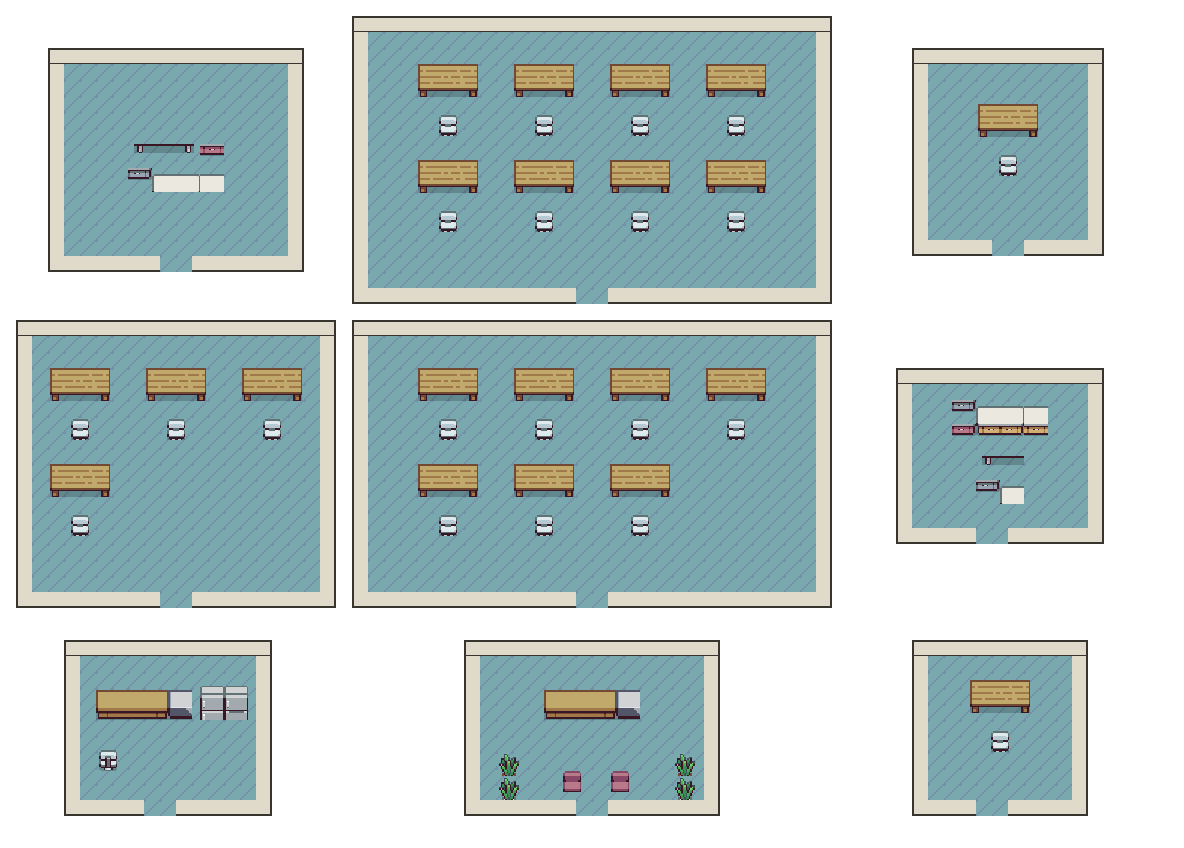
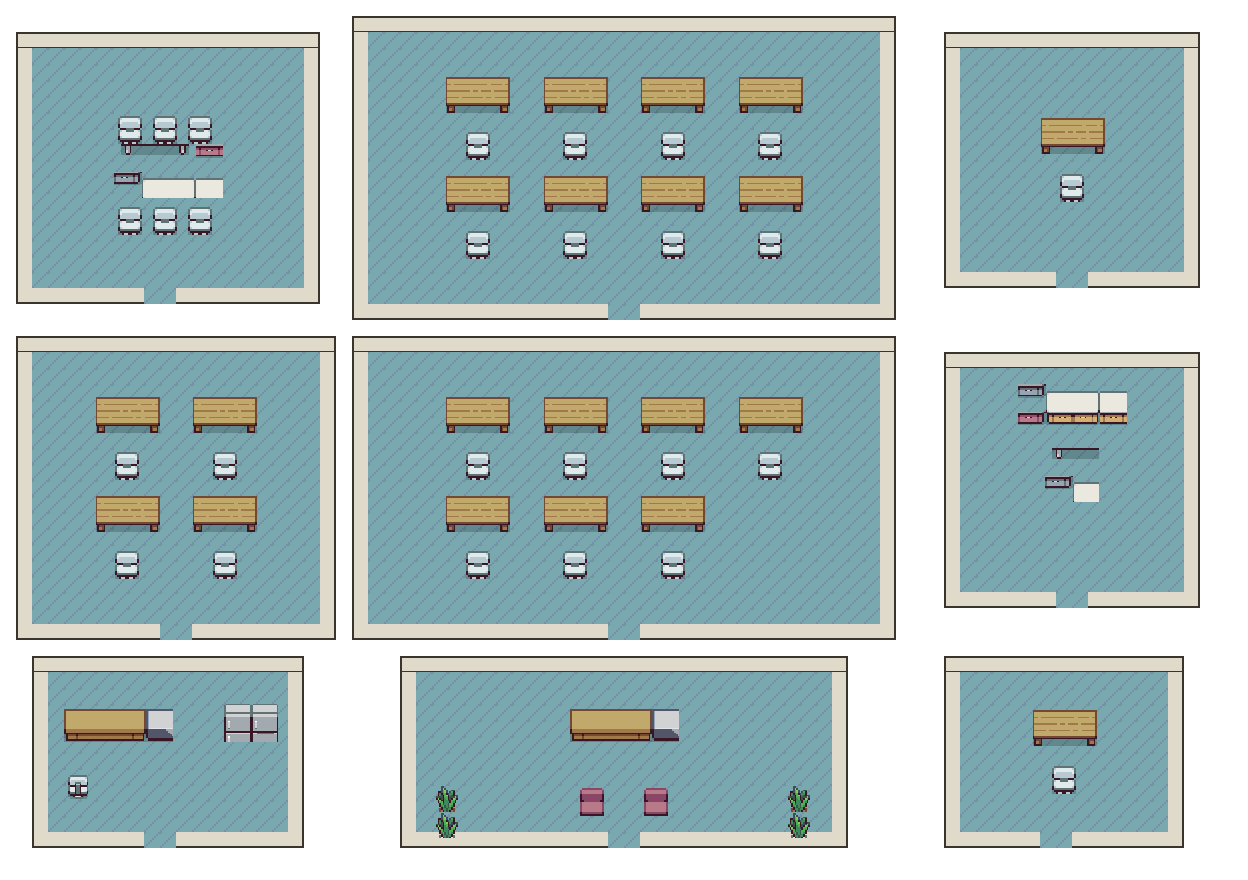
feat(office): bigger everything, solid-colour monitors, fills the space
- Fix blitScaled dropping fractional dest offsets (furniture now renders reliably)
- Wider grid (1248x880), rooms fill their cells → far less black space
- Furniture bigger: desks 1.6x, chairs 2x; AGENT_SIZE 62→84
- Monitors are now solid status-colour blocks (no dark bezel)
- fitZoom fills to the edges; bump ART_VERSION to 9

diff --git a/ui/src/components/LivingOfficeFloor.tsx b/ui/src/components/LivingOfficeFloor.tsx
@@ -43,18 +43,18 @@ const FLOORS: FloorDef[] = [
     id: "square",
     label: "Office",
     image: "/assets/pixelart/Office%20Square.png",
-    natW: 1184,
-    natH: 848,
+    natW: 1248,
+    natH: 880,
     zones: [
-      { id: "meeting", name: "會議室", team: null, x: 4.1, y: 5.7, w: 21.6, h: 26.4, color: "#10B981" },
-      { id: "teaching", name: "教學組", team: "教學組", x: 29.7, y: 1.9, w: 40.5, h: 34, color: "#8B5CF6", seats: [{"x":37.84,"y":14.62},{"x":45.95,"y":14.62},{"x":54.05,"y":14.62},{"x":62.16,"y":14.62},{"x":37.84,"y":25.94},{"x":45.95,"y":25.94},{"x":54.05,"y":25.94},{"x":62.16,"y":25.94}] },
-      { id: "talent", name: "人才發展", team: "人才發展", x: 77, y: 5.7, w: 16.2, h: 24.5, color: "#6366F1", seats: [{"x":85.14,"y":19.34}] },
-      { id: "lead", name: "領導團隊", team: "領導團隊", x: 1.4, y: 37.7, w: 27, h: 34, color: "#F59E0B", seats: [{"x":6.76,"y":50.47},{"x":14.86,"y":50.47},{"x":22.97,"y":50.47},{"x":6.76,"y":61.79}] },
-      { id: "it", name: "資訊部", team: "資訊部", x: 29.7, y: 37.7, w: 40.5, h: 34, color: "#3B82F6", seats: [{"x":37.84,"y":50.47},{"x":45.95,"y":50.47},{"x":54.05,"y":50.47},{"x":62.16,"y":50.47},{"x":37.84,"y":61.79},{"x":45.95,"y":61.79},{"x":54.05,"y":61.79}] },
-      { id: "lounge", name: "休息室", team: null, x: 75.7, y: 43.4, w: 17.6, h: 20.8, color: "#EC4899" },
-      { id: "pantry", name: "茶水間", team: null, x: 5.4, y: 75.5, w: 17.6, h: 20.8, color: "#14B8A6" },
-      { id: "reception", name: "接待處", team: null, x: 39.2, y: 75.5, w: 21.6, h: 20.8, color: "#A855F7" },
-      { id: "auto", name: "系統自動化", team: "系統自動化", x: 77, y: 75.5, w: 14.9, h: 20.8, color: "#F97316", seats: [{"x":84.46,"y":87.26}] },
+      { id: "meeting", name: "會議室", team: null, x: 1.3, y: 3.6, w: 24.4, h: 30.9, color: "#10B981" },
+      { id: "teaching", name: "教學組", team: "教學組", x: 28.2, y: 1.8, w: 43.6, h: 34.5, color: "#8B5CF6", seats: [{"x":38.27,"y":16.36},{"x":46.09,"y":16.36},{"x":53.91,"y":16.36},{"x":61.73,"y":16.36},{"x":38.27,"y":27.64},{"x":46.09,"y":27.64},{"x":53.91,"y":27.64},{"x":61.73,"y":27.64}] },
+      { id: "talent", name: "人才發展", team: "人才發展", x: 75.6, y: 3.6, w: 20.5, h: 29.1, color: "#6366F1", seats: [{"x":85.9,"y":21.09}] },
+      { id: "lead", name: "領導團隊", team: "領導團隊", x: 1.3, y: 38.2, w: 25.6, h: 34.5, color: "#F59E0B", seats: [{"x":10.19,"y":52.73},{"x":18.01,"y":52.73},{"x":10.19,"y":64},{"x":18.01,"y":64}] },
+      { id: "it", name: "資訊部", team: "資訊部", x: 28.2, y: 38.2, w: 43.6, h: 34.5, color: "#3B82F6", seats: [{"x":38.27,"y":52.73},{"x":46.09,"y":52.73},{"x":53.91,"y":52.73},{"x":61.73,"y":52.73},{"x":38.27,"y":64},{"x":46.09,"y":64},{"x":53.91,"y":64}] },
+      { id: "lounge", name: "休息室", team: null, x: 75.6, y: 40, w: 20.5, h: 29.1, color: "#EC4899" },
+      { id: "pantry", name: "茶水間", team: null, x: 2.6, y: 74.5, w: 21.8, h: 21.8, color: "#14B8A6" },
+      { id: "reception", name: "接待處", team: null, x: 32.1, y: 74.5, w: 35.9, h: 21.8, color: "#A855F7" },
+      { id: "auto", name: "系統自動化", team: "系統自動化", x: 75.6, y: 74.5, w: 19.2, h: 21.8, color: "#F97316", seats: [{"x":85.26,"y":88.36}] },
     ],
   },
 ];
@@ -63,7 +63,7 @@ const clamp = (v: number, lo: number, hi: number) => Math.max(lo, Math.min(hi, v
 
 // Fixed on-floor character footprint in native map px — uniform for every agent
 // (≈ chair-sized). Visible sprite is AGENT_SIZE * SPRITE_SCALE.
-const AGENT_SIZE = 62;
+const AGENT_SIZE = 84;
 const SPRITE_SCALE = 2.0;
 
 // 8-way facing from a screen-space velocity (y points down → south).
@@ -114,27 +114,23 @@ function SpeechBubble({ text, color }: { text: string; color: string }) {
   );
 }
 
-// ── Desk monitor: sits on the desk, screen colour reflects agent status ──────
+// ── Desk monitor: sits on the desk, whole screen is the agent's status colour ──
 function DeskMonitor({ x, y, size, status }: { x: number; y: number; size: number; status: Status }) {
   const screen = STATUS_COLOR[status];
   const working = status === "working";
-  const w = size * 0.5, h = size * 0.36;
+  const w = size * 0.52, h = size * 0.38;
   return (
     <div style={{
       position: "absolute", left: `${x}%`, top: `${y}%`,
       // sit the monitor on the desk, which is ~2 tiles above the agent's seat
-      transform: `translate(-50%, calc(-50% - ${size * 0.78}px))`,
+      transform: `translate(-50%, calc(-50% - ${size * 0.9}px))`,
       width: w, height: h, zIndex: 6, pointerEvents: "none",
-      background: "#12151c", border: `${Math.max(1, size*0.05)}px solid #2b303c`,
-      borderRadius: 3, padding: size * 0.07, boxSizing: "border-box",
-    }}>
-      <div style={{
-        width: "100%", height: "100%", borderRadius: 1, background: screen,
-        opacity: status === "idle" ? 0.5 : 0.95,
-        boxShadow: working ? `0 0 ${size*0.25}px ${screen}` : "none",
-        animation: working ? "office-agent-ring-pulse 1.8s ease-in-out infinite" : "none",
-      }} />
-    </div>
+      // no bezel — the whole monitor is the status colour
+      background: screen, borderRadius: 2,
+      opacity: status === "idle" ? 0.6 : 1,
+      boxShadow: working ? `0 0 ${size*0.28}px ${screen}` : "none",
+      animation: working ? "office-agent-ring-pulse 1.8s ease-in-out infinite" : "none",
+    }} />
   );
 }
 
@@ -344,7 +340,7 @@ export function LivingOfficeFloor({ agents, workingIds, liveRuns, onOpen }: {
     // width-shrinks → refit → scrollbar-disappears feedback loop that made the map
     // twitch (時大時小). Rounded to 2dp to kill sub-pixel jitter. Uniform scale, so
     // proportions are always preserved.
-    const contain = Math.min((viewport.w - 12) / mapW, (viewport.h - 12) / mapH);
+    const contain = Math.min((viewport.w - 4) / mapW, (viewport.h - 4) / mapH);
     return Math.round(clamp(contain, 0.3, 3) * 100) / 100;
   }, [viewport, mapW, mapH]);
   const zoom = userZoom ?? fitZoom;

diff --git a/ui/src/lib/office-sprite-catalog.ts b/ui/src/lib/office-sprite-catalog.ts
@@ -89,7 +89,7 @@ export const CATALOG_MANIFEST_URL = "/assets/office-characters/manifest.json";
 // Bump when the sprite PNGs are regenerated — the filenames stay the same, so
 // without this the browser serves stale cached images. Appended as ?v= to every
 // sprite URL so a redeploy always shows the latest art.
-export const ART_VERSION = "8";
+export const ART_VERSION = "9";
 
 /** Append the art-version cache-buster to a sprite URL. */
 export function bustCache(url: string): string {